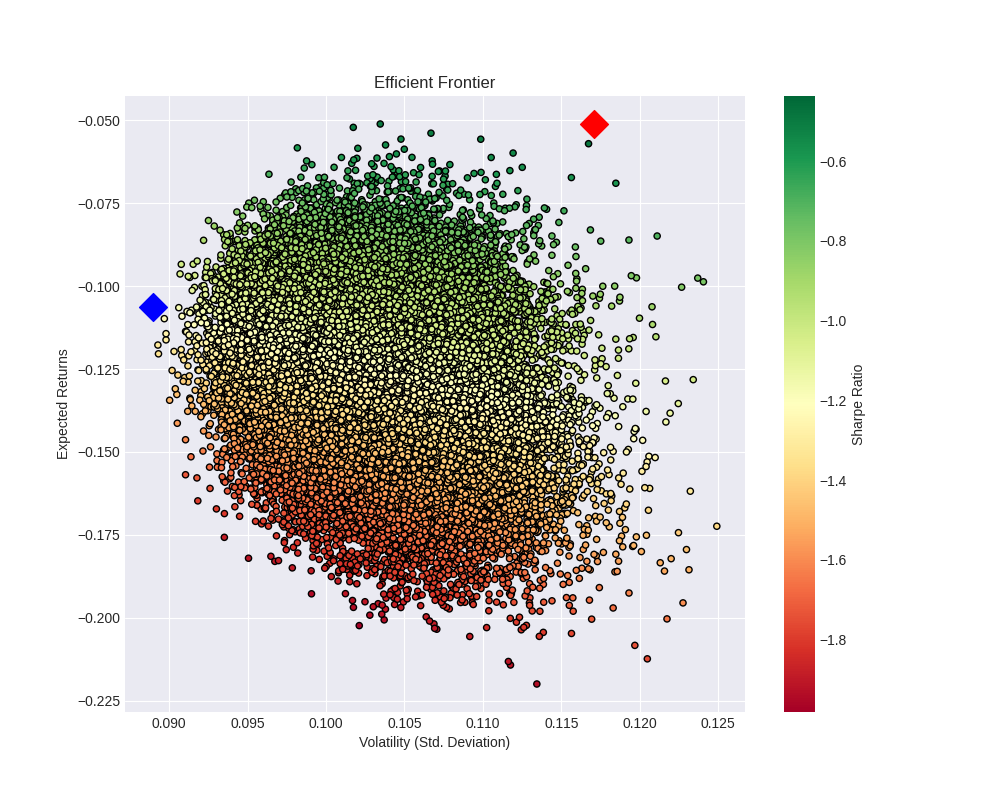
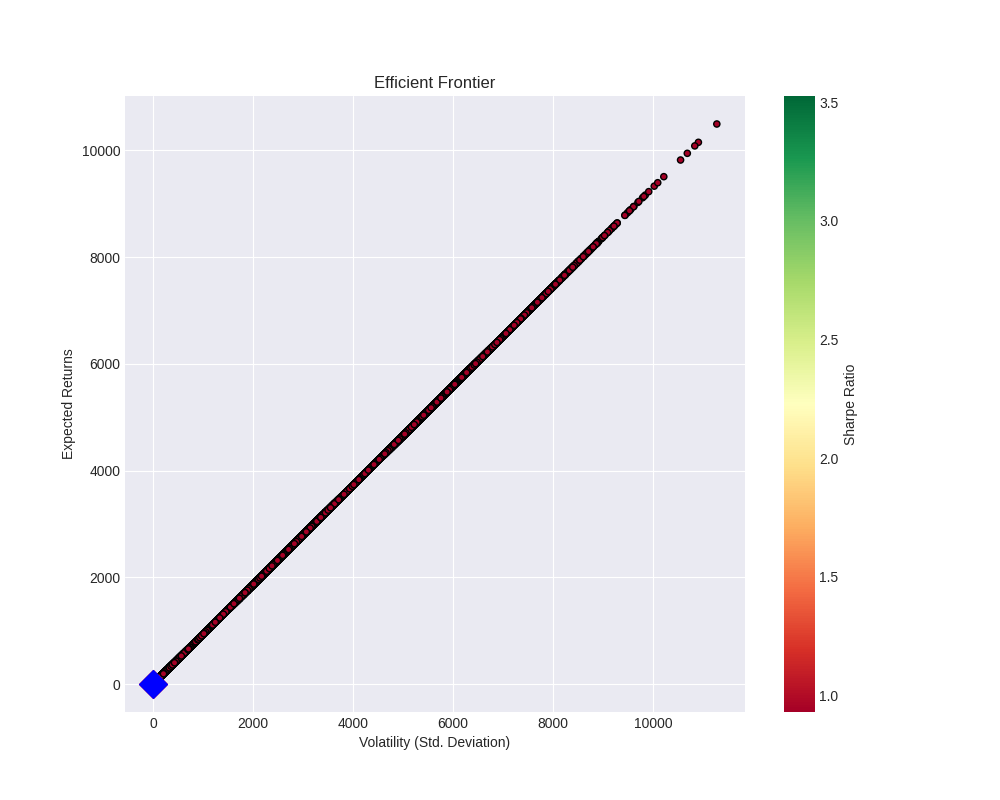
pnl

diff --git a/functions/momentum_long_term.py b/functions/momentum_long_term.py
@@ -1,6 +1,6 @@
 # Portfolio 1 - Intermediate-Term Momentum
     # Identify universe (sample_space) (ok)
-    # Remove outliers (beta) (momentum_outliers)
+    # Remove outliers (beta) (ok) (momentum_outliers) (ok)
     # Momentum screen (momentum_quantity)
     # Momentum quality (momentum_quality)
     # Invest with conviction
@@ -9,11 +9,12 @@
 
 ########################################################################################################
 
-from handle_api import tickers_list, candlestick
+from handle_api import tickers_list, candlestick, prices, trades, balances
 import pandas as pd
 import matplotlib.pyplot as plt
 from sklearn.linear_model import LinearRegression
 import numpy as np
+import time, datetime
 
 
 def sample_space(OneYearData, MinimumValue=0.5, MinimumVolume=10000):
@@ -35,7 +36,7 @@ def sample_space(OneYearData, MinimumValue=0.5, MinimumVolume=10000):
 
 
 def beta(data, base_asset='BTCUSDT', p=0.3):
-    # Eliminate assets with beta module greater than 'p' (ok)
+    # Eliminate assets with abs(beta) greater than 'p' (ok)
 
     df = pd.DataFrame()
     for s in data.keys():
@@ -67,64 +68,60 @@ def beta(data, base_asset='BTCUSDT', p=0.3):
     beta = {k:v for k,v in beta.items() if abs(v)<=p}
 
     LowBetaAssets = {k:v for k,v in data.items() if (k == pd.Series(beta.keys())).any()}
-    LowBetaAssets['BTCUSDT'] = data['BTCUSDT']
-    LowBetaAssets['ETHUSDT'] = data['ETHUSDT']
+    # LowBetaAssets['BTCUSDT'] = data['BTCUSDT']
+    # LowBetaAssets['ETHUSDT'] = data['ETHUSDT']
     print('LowBetaAssets length: ' + str(len(LowBetaAssets)) + ' rows')
     
     return LowBetaAssets
 
 
-def momentum_outliers(data):
-    # Remove assets with bad 6 and 9-month momentum measure
+def calculate_momentum(data, periods = [180, 270, 360]):
+    # Calculate momentum for given time periods
+    # periods = periods' list to calculate momentum
+    MomentumData = {}
+    info = {}
+    for k in data.keys():
+        for i in periods:
+            length = len(data[k]['close'])
+            end = length - 7
+            beginning = max(end - i, 0)
+            info[str(i)] = (pd.to_numeric(data[k]['close'][end]) - pd.to_numeric(data[k]['open'][beginning])) / pd.to_numeric(data[k]['open'][beginning])
+        MomentumData[k] = info.copy()
+        for i in periods:
+            info.pop(str(i))
+    
+    return MomentumData
 
-    pass
 
-        
-def momentum_quantity(data, n=20, key='last', cut=0.5):
-    # key = 'last' => calculate last imi's / key = 'all' => calculate all imi's
-    # n = imi period
-    # m = investment period
-    momentum = {}
-    momentum_filter = {}
-    for d in data.keys():
-        series = data[d].copy()
-        series['close'] = pd.to_numeric(series['close'])
-        series['open'] = pd.to_numeric(series['open'])
-        series['return'] = series['close']-series['open']
-        if key == 'all':
-            series['gains'] = 0.0
-            series['losses'] = 0.0
-            series['imi'] = 0.0
-            series['return_m'] = 0.0
-            for i in series.index:
-                if i < n:
-                    pass
-                else:
-                    series['gains'][i] = series['return'][i-n:i][series['return']>=0].sum()
-                    series['losses'][i] = series['return'][i-n:i][series['return']<0].sum()
-                    if series['gains'][i]-series['losses'][i] == 0:
-                        series['imi'][i] = 0.5
-                    else:
-                        series['imi'][i] = series['gains'][i]/(series['gains'][i]-series['losses'][i])
-                    # if i+m-1 >= len(series):
-                    #     pass
-                    # else:
-                    #     series['return_m'][i] = (series['close'][i+m-1]-series['open'][i])/series['open'][i]
-        elif key == 'last':
-            i = series.index.max()
-            gains = series['return'][i-n:i][series['return']>=0].sum()
-            losses = series['return'][i-n:i][series['return']<0].sum()
-            if gains-losses == 0:
-                pass
-            elif gains/(gains-losses)<=cut:
-                momentum_filter[d] = gains/(gains-losses)
-            else:
-                pass
-        momentum[d] = series
-    if key == 'last':
-        momentum = {k:v for k,v in momentum.items() if (pd.Series(momentum_filter.keys()) == k).any()}
-    print('quantity series: ' + str(len(momentum)) + ' rows')
-    return momentum
+def momentum_outliers(data, MomentumData, screen = 0.0, periods = [180, 270]):
+    # Remove assets with negative 6 and 9-month momentum measure from data
+    MomentumDataNoOutliers = {k:v for k,v in MomentumData.items() if v[str(periods[1])] >= screen and v[str(periods[0])] >= screen}
+    
+    OutliersRemoved = {k:v for k,v in data.items() if (k == pd.Series(MomentumDataNoOutliers.keys())).any()}
+
+    print('OutliersRemoved length = ' + str(len(OutliersRemoved)) + ' rows')
+
+    return OutliersRemoved, MomentumDataNoOutliers
+
+
+def momentum_quantity(data, MomentumDataNoOutliers):
+    # Select assets with higher 12-month momentum
+    # Create DataFrame for storing 12-month momentum data
+    dfMomentum = pd.DataFrame(data=None, columns=['asset', 'momentum'], index=range(0, len(MomentumDataNoOutliers)))
+    i = 0
+    for k in MomentumDataNoOutliers.keys():
+        dfMomentum['asset'][i] = k
+        dfMomentum['momentum'][i] = MomentumDataNoOutliers[k]['360']
+        i+=1
+    
+    # Filter positive 12-month momentum
+    dfMomentum = dfMomentum[dfMomentum['momentum']>1.0]
+
+    CleanData = {k:v for k,v in data.items() if (k == dfMomentum['asset']).any()}
+
+    print('CleanData length = ' + str(len(CleanData)) + ' rows')
+
+    return CleanData
 
 
 def momentum_quality(data, n=20, p=0.5, cut=0):
@@ -183,6 +180,7 @@ def markovitz(data):
         t = data[ticker][['open_datetime', 'close']]
         t.set_index('open_datetime', inplace=True)
         t.columns = [ticker]
+        t[ticker] = pd.to_numeric(t[ticker])
 
         if len(table) == 0:
             table = t.copy()
@@ -258,8 +256,8 @@ def markovitz(data):
     plt.xlabel('Volatility (Std. Deviation)')
     plt.ylabel('Expected Returns')
     plt.title('Efficient Frontier')
-    # plt.show()
-    plt.savefig('foo.png')
+    plt.show()
+    plt.savefig('plots/Markowitz Efficient Frontier.png')
 
     print(min_variance_port.T)
     print(sharpe_portfolio.T)
@@ -279,8 +277,85 @@ def run_strategy():
     b = beta(a)
 
     # Screen nº 3:
-    c = momentum_outliers(b)
+    c = calculate_momentum(b)
+    d, MomentumDataNoOutliers = momentum_outliers(b, c)
+
+    # Screen nº 4:
+    e = momentum_quantity(d, MomentumDataNoOutliers)
+
+    # Screen nº5:
+    f = momentum_quality(e)
+    
+    return f
 
 
+def pnl(portfolio_keys=['00']):
+    for key in portfolio_keys:
+        portfolio = pd.read_csv('portfolios/' + key + '.csv')
+
+        AllTickers = tickers_list()
+        # holding = list(balances().keys())
+        holding = list(portfolio['asset'])
+
+        tickers = []
+        for i in AllTickers:
+            for j in holding:
+                if i[0:len(j)] == j and (i[-3:] == 'BRL' or i[-3:] == 'BTC'):
+                    tickers.append(i)
+        
+        TradeHistory = trades(tickers)
+
+        pnl = {}
+        for s in TradeHistory:
+            price = []
+            qty = []
+            Time = []
+            for v in s:
+                if v['isBuyer'] == True:
+                    price.append(v['price'])
+                    qty.append(v['qty'])
+                    Time.append(v['time'])
+                    pnl[v['symbol']] = {'price': price, 'qty': qty, 'time': Time,}
+
+        while True:
+            Psell = prices()[1]
+
+            print(datetime.datetime.now())
+            print('\n')
+
+            for k in pnl.keys():
+                pnl[k]['sell'] = Psell[k]
+
+                # sum of quantities times current price
+                # sum(pd.to_numeric(pnl['LRCBTC']['qty']))*pd.to_numeric(Psell['LRCBTC'])
+                # sum of each buy price times each quantity
+                # sum(pd.to_numeric(pnl['LRCBTC']['price'])*pd.to_numeric(pnl['LRCBTC']['qty']))
+                pnl[k]['pnl_total'] = \
+                    sum(pd.to_numeric(pnl[k]['qty']))*pd.to_numeric(Psell[k]) - \
+                    sum(pd.to_numeric(pnl[k]['price'])*pd.to_numeric(pnl[k]['qty']))
+
+                pnl[k]['pnl_percent'] = \
+                    ((sum(pd.to_numeric(pnl[k]['qty']))*pd.to_numeric(Psell[k])/ \
+                    sum(pd.to_numeric(pnl[k]['price'])*pd.to_numeric(pnl[k]['qty']))) - 1) * 100
+
+                print(
+                    k + ': ' + str(round(pnl[k]['pnl_percent'], 2)) + '%'
+                )
+            
+            print('\n\n')
+
+            time.sleep(3)
+    
+
+# build_portfolio variables:
+#   [0]: build new portfolio
+#   [1]: calculate Markowitz for new portfolio
+build_portfolio = [0, 0]
 if __name__ == "__main__":
-    run_strategy()
+    
+    if build_portfolio[0] == 1:
+        f = run_strategy()
+        if build_portfolio[1] == 1:
+            g, h = markovitz(f)
+    
+    pnl()

diff --git a/functions/handle_api.py b/functions/handle_api.py
@@ -140,6 +140,26 @@ def account_snapshot(apikey=auth_dict['key']):
     return data.json()
 
 
+def trades(symbols, apikey=auth_dict['key']):
+    FullData = []
+    for symbol in symbols:
+        servertimeint = get_timestamp()[0]
+        endpoint_params = {
+                "symbol" : symbol,
+                "timestamp" : servertimeint,
+            }
+        hashedsig_dict = sha256_signature(endpoint_params)
+        endpoint_params.update(hashedsig_dict)
+        data = requests.get(endpoints['trades'],
+            params = endpoint_params,
+            headers = {
+                "X-MBX-APIKEY" : apikey,
+            }
+        )
+        FullData.append(data.json())
+    return FullData
+
+
 def test_order(symbol, side, type, quantity, apikey=auth_dict['key']):
     servertimeint = get_timestamp()[0]
     endpoint_params = {
@@ -203,8 +223,4 @@ def prices():
         Psell[i['symbol']] = i['bidPrice']
     return Pbuy, Psell
 
-
-
-# snap = account_info()
-# print(snap)
-# order_data = order(symbol='BNBBTC', side='SELL', type='LIMIT', timeInForce='GTC', quantity=0.01, price=0.008244)
+    

diff --git a/functions/initialize.py b/functions/initialize.py
@@ -18,6 +18,7 @@ def initialize(api_type = 'prod'):
         'price_hist' : '/api/v3/historicalTrades',
         'order' : '/api/v3/order',
         'test_order' : '/api/v3/order/test',
+        'trades' : '/api/v3/myTrades',
     }
 
     if api_type == 'test':
